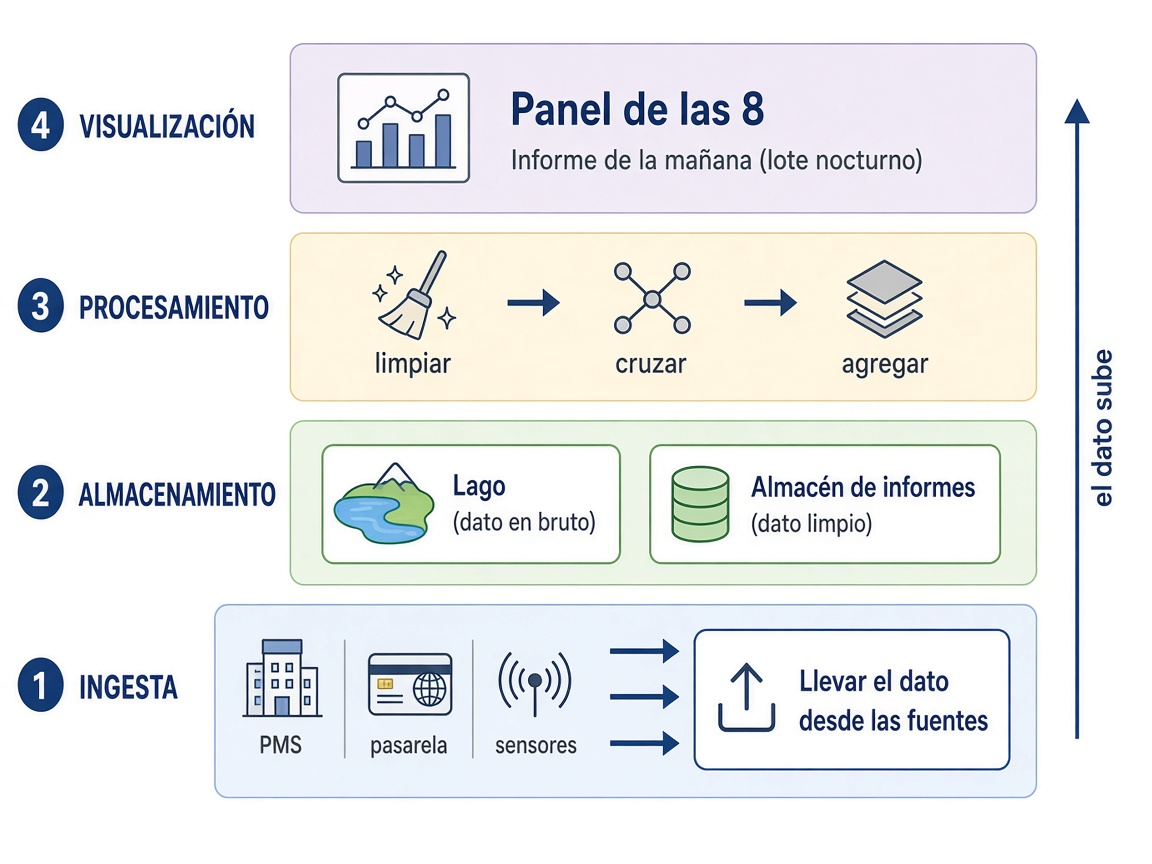
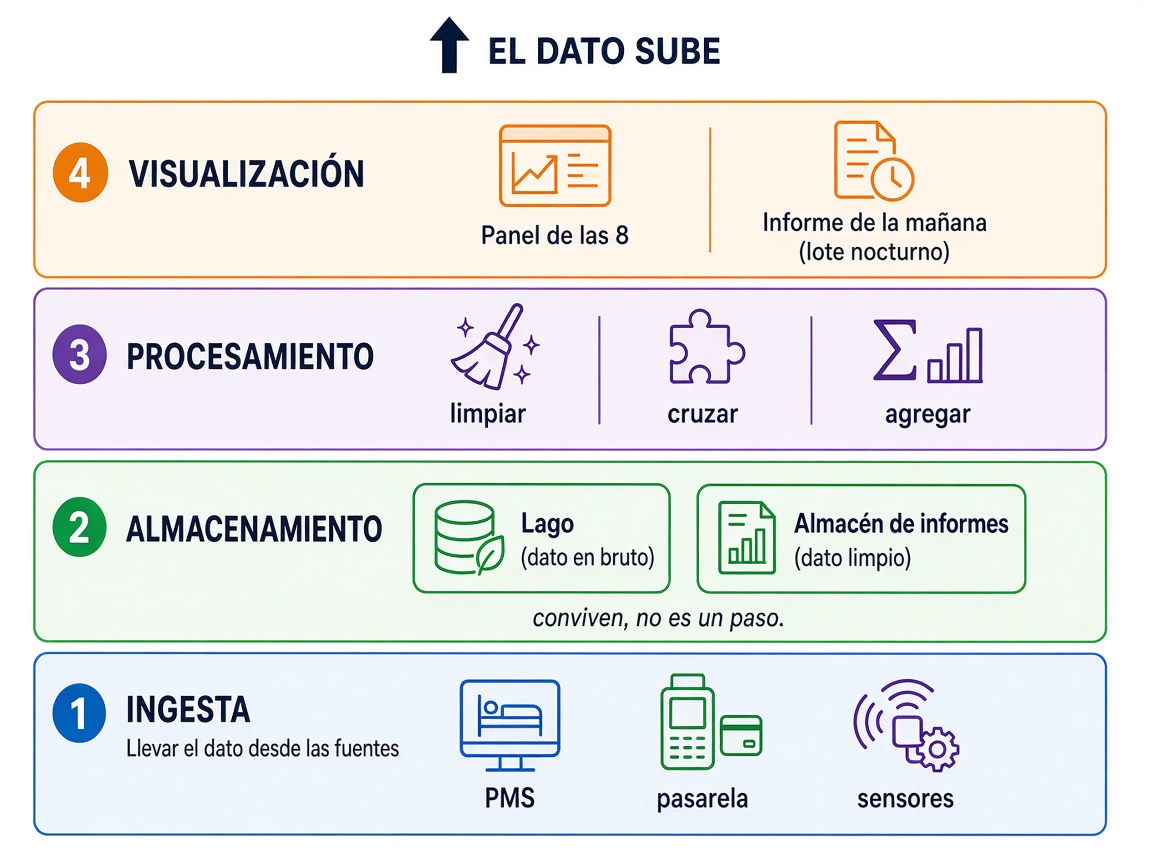
Separar lago y almacén, semáforo frente al panel, y snapshot en la carga.

Changed region(s): [[0.0, 0.0, 0.9688, 0.9688]]

diff --git a/docs/ut1/ingesta.md b/docs/ut1/ingesta.md
@@ -27,7 +27,7 @@ En el grupo hotelero que usamos en esta unidad:
 
 Esos datos **ya existen**. No están, de entrada, en el sitio donde gerencia los mira. Llevarlos de un sitio al otro es ingesta.
 
-![Ingesta de datos en el hotel: reservas, cobros y sensores hacia el lago y el panel](../assets/ut1/ingesta-hotel.png)
+![Ingesta de datos en el hotel: reservas, cobros y sensores hacia el lago; el panel es otro paso](../assets/ut1/ingesta-hotel.png)
 
 Hasta que el dato no entra, el resto de la [arquitectura](arquitectura.md) está vacía. Un buen proceso de ingesta tiene que ser:
 
@@ -44,9 +44,9 @@ Antes de elegir un programa, diseñas **hacia atrás**:
 2. ¿Hay que cruzar reservas con cobros, quitar canceladas, unificar el nombre del canal? (transformación)
 3. ¿El dato vive en el programa de reservas, en la pasarela, en una carpeta FTP (un sitio en red donde se dejan ficheros) o en los sensores? (origen)
 
-Sin esa pregunta de negocio, unificar veinte fuentes en un único almacén es un proyecto largo que no sabes cuándo termina.
+Sin esa pregunta de negocio, unificar veinte fuentes es un proyecto largo que no sabes cuándo termina.
 
-A ese almacén único, cuando guarda datos de muchas fuentes **en bruto** (aún poco limpios), se le llama **lago de datos** (*data lake*). Lo verás con más detalle en [1.3](almacenamiento.md). Aquí basta: es el “sitio común” al que suele llegar lo ingerido.
+El sitio típico al que llega lo ingerido **en bruto** es el **lago de datos** (*data lake*). El **almacén de informes** (*data warehouse*) es otro sitio: ahí el dato ya va limpio, pensado para el panel. En [1.3](almacenamiento.md) se distinguen; aquí basta: la ingesta suele aterrizar primero en el lago.
 
 ## Pipeline de datos
 
@@ -131,8 +131,6 @@ Dos reglas:
 
 Compruebas que el lote **trae lo que dice traer** (columnas, tipos). Si no, se **aparta**: un job “en verde” con filas cojas envenena el panel.
 
-La **carga inicial** es un *snapshot*: una foto de todo (tres años de reservas). El job del martes es **incremental**: solo lo nuevo o lo que cambió. Mezclarlas es un error caro.
-
 Hay tres formas de iniciar el movimiento. No son tres productos.
 
 ![Push, pull y poll: quién inicia el movimiento del dato](../assets/ut1/push-pull-poll.png)
@@ -177,7 +175,11 @@ Cada destino tiene su vía rápida. Tres palancas que, si las ignoras, tiran una
 | **Partición** (guardar en “cajones”: por fecha o por hotel) | Si partes mal, el panel barre todo |
 | **Tamaño de la transacción** (cuántas filas confirmas de golpe) | Confirmar diez millones de golpe puede tumbar el destino; confirmar de una en una, eternizar la carga |
 
-Cien filas de práctica **no** demuestran la carga. El **formato** de lo que escribes (CSV, JSON, Parquet…) es parte de esta L: lo vemos justo después del [Hola ETL](#hola-etl), cuando ya tienes un `cruce`. El catálogo completo está en [1.7](formatos.md).
+Cien filas de práctica **no** demuestran la carga.
+
+Tampoco es lo mismo el tamaño el día 1 y el martes. La **primera carga** (*snapshot*) es una foto de todo: tres años de reservas. El job del martes es **incremental**: solo lo nuevo o lo que cambió. Mezclarlas es un error caro. Eso también cambia cuánto **extraes**: no pides tres años cada noche.
+
+El **formato** de lo que escribes (CSV, JSON, Parquet…) es parte de esta L: lo vemos justo después del [Hola ETL](#hola-etl), cuando ya tienes un `cruce`. El catálogo completo está en [1.7](formatos.md).
 
 ## ELT
 
@@ -364,10 +366,24 @@ Escribir “un fichero” no basta. El siguiente paso tiene que **partir** el ar
 | Tablas Hive | ORC (o Parquet si el equipo usa Spark) | Encaje con esa pila |
 | El programa de recepción | Ni Parquet ni ORC como almacén | Actualizar una fila es caro |
 
-Si el cruce pesara y el destino fuera el lago:
+Si el cruce pesara y el destino fuera el lago, usa el `cruce` del **pandas** de arriba (`pip install pyarrow`):
 
 ```python
 cruce.to_parquet("web_cobrado.parquet")
+```
+
+Si solo corriste DuckDB, no existe `cruce`. Entonces:
+
+```python
+duckdb.sql("""
+COPY (
+    SELECT r.id_reserva, r.hotel, r.importe, c.medio
+    FROM read_csv('reservas.csv', header=true) AS r
+    INNER JOIN read_csv('cobros.csv', header=true) AS c
+        USING (id_reserva)
+    WHERE r.canal = 'web'
+) TO 'web_cobrado.parquet' (FORMAT PARQUET)
+""")
 ```
 
 Comprimir ocupa menos y viaja menos; cuesta CPU. En volumen suele ganar un códec **rápido** (por ejemplo Snappy).
@@ -399,14 +415,14 @@ Cuatro preguntas que recuerdan a las [5 V](por-que-big-data.md), aplicadas al *c
 
 Un CSV de canales y un sensor cada 30 segundos **no** van por el mismo tubo.
 
-Si el sensor de habitación no puede esperar al informe de las 8, hace falta **desacoplar** al que produce el dato del que lo consume: cada uno trabaja a su ritmo.
+Si el sensor de habitación no puede esperar al informe de las 8, hace falta **desacoplar** al que produce el dato del que lo consume: cada uno trabaja a su ritmo. El **panel de las 8** sigue siendo un lote nocturno. La cola es para el **semáforo** de recepción, no para ese panel.
 
 Una **cola de mensajes** es un buzón intermedio. No es una base de datos de informes: solo guarda avisos un rato.
 
-![Productor, cola y consumidor: si el consumidor va lento, la cola aguanta](../assets/ut1/cola-mensajes.png)
+![Productor, cola y semáforo de recepción: si el semáforo va lento, la cola aguanta](../assets/ut1/cola-mensajes.png)
 
 - Un **productor** deja el evento (la habitación se ocupó).
-- Un **consumidor** lo recoge cuando puede (el panel, un script).
+- Un **consumidor** lo recoge cuando puede (el semáforo de recepción, un script).
 - Si el consumidor va lento, la cola **aguanta** un rato: es un **búfer**.
 - Si además el sistema **frena al productor** para que no siga empujando, eso es *contrapresión* (*back pressure*). No son lo mismo: el búfer absorbe; la contrapresión pide que se afloje.
 
@@ -418,7 +434,7 @@ Herramientas de este oficio (las verás con más detalle en el catálogo de más
 - **RabbitMQ:** una cola más clásica ([rabbitmq.com](https://www.rabbitmq.com/)): el productor deja el recado, el consumidor lo recoge y, en general, se borra.
 - En la nube hay equivalentes: [**Kinesis**](https://aws.amazon.com/kinesis/) (Amazon), [**Event Hubs**](https://azure.microsoft.com/products/event-hubs/) (Azure), [**Pub/Sub**](https://cloud.google.com/pubsub) (Google).
 
-En voz alta: “desacoplar al que pica la reserva del que pinta el panel” → familia **mensajería**, no un volcado nocturno.
+En voz alta: “desacoplar al sensor del semáforo de recepción” → familia **mensajería**, no el volcado nocturno del panel de las 8.
 
 ### Batch vs Streaming
 
